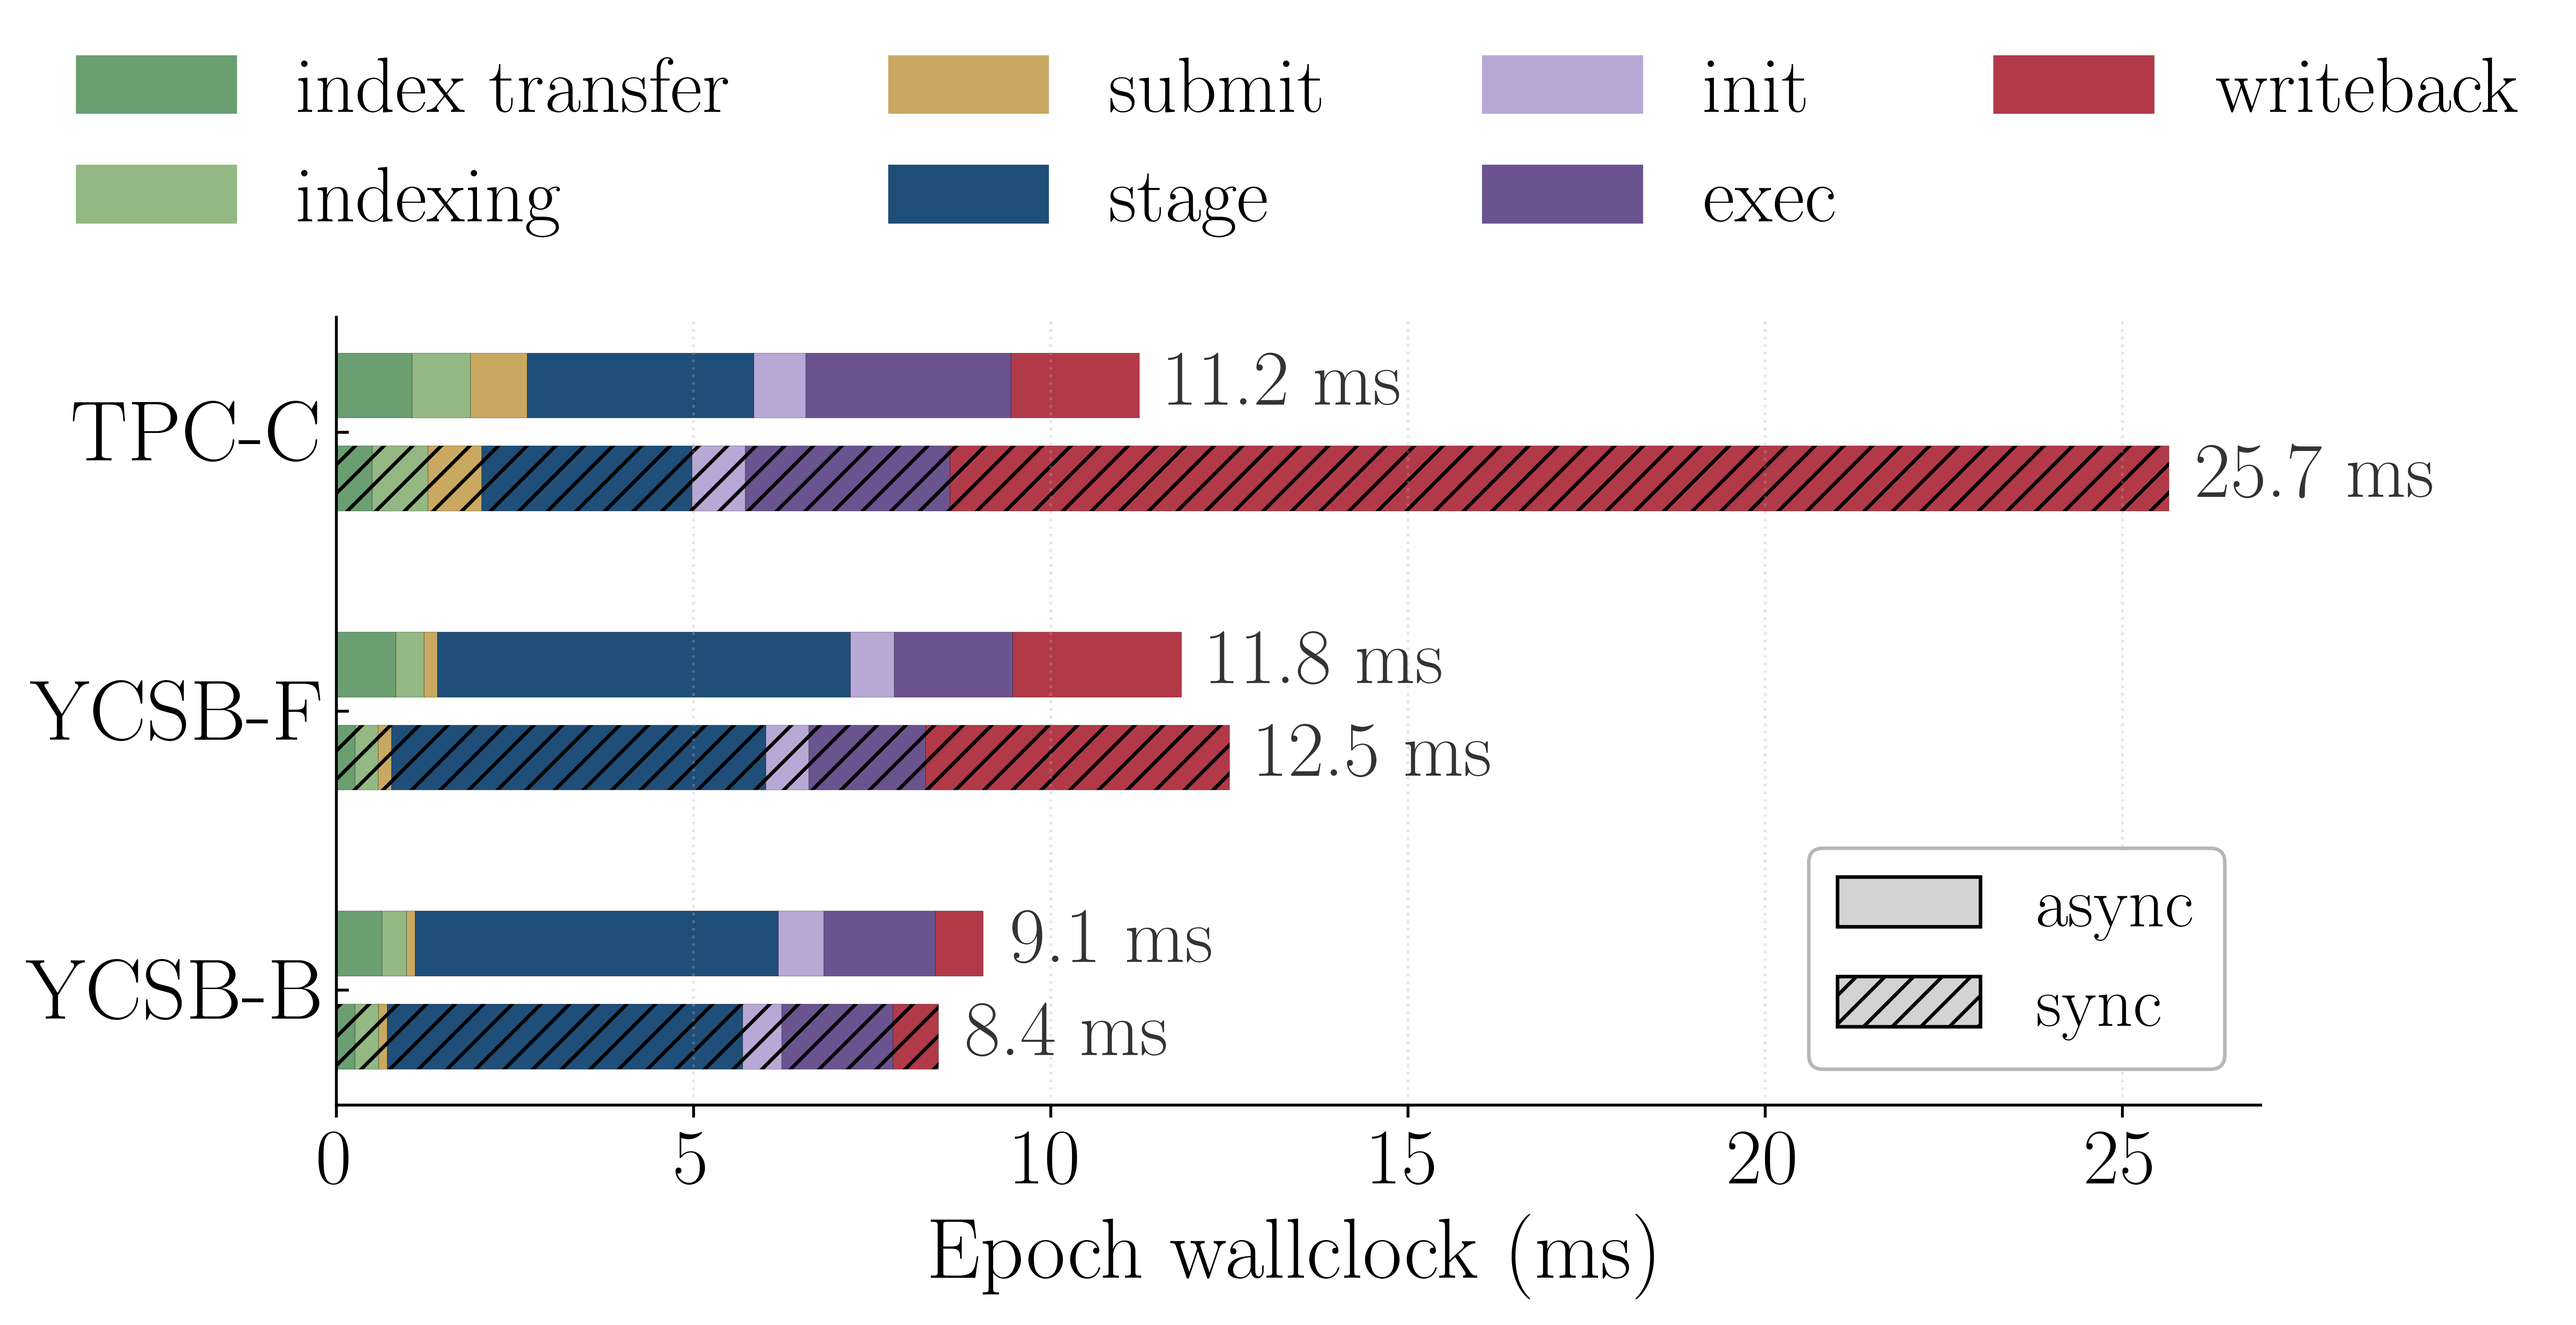
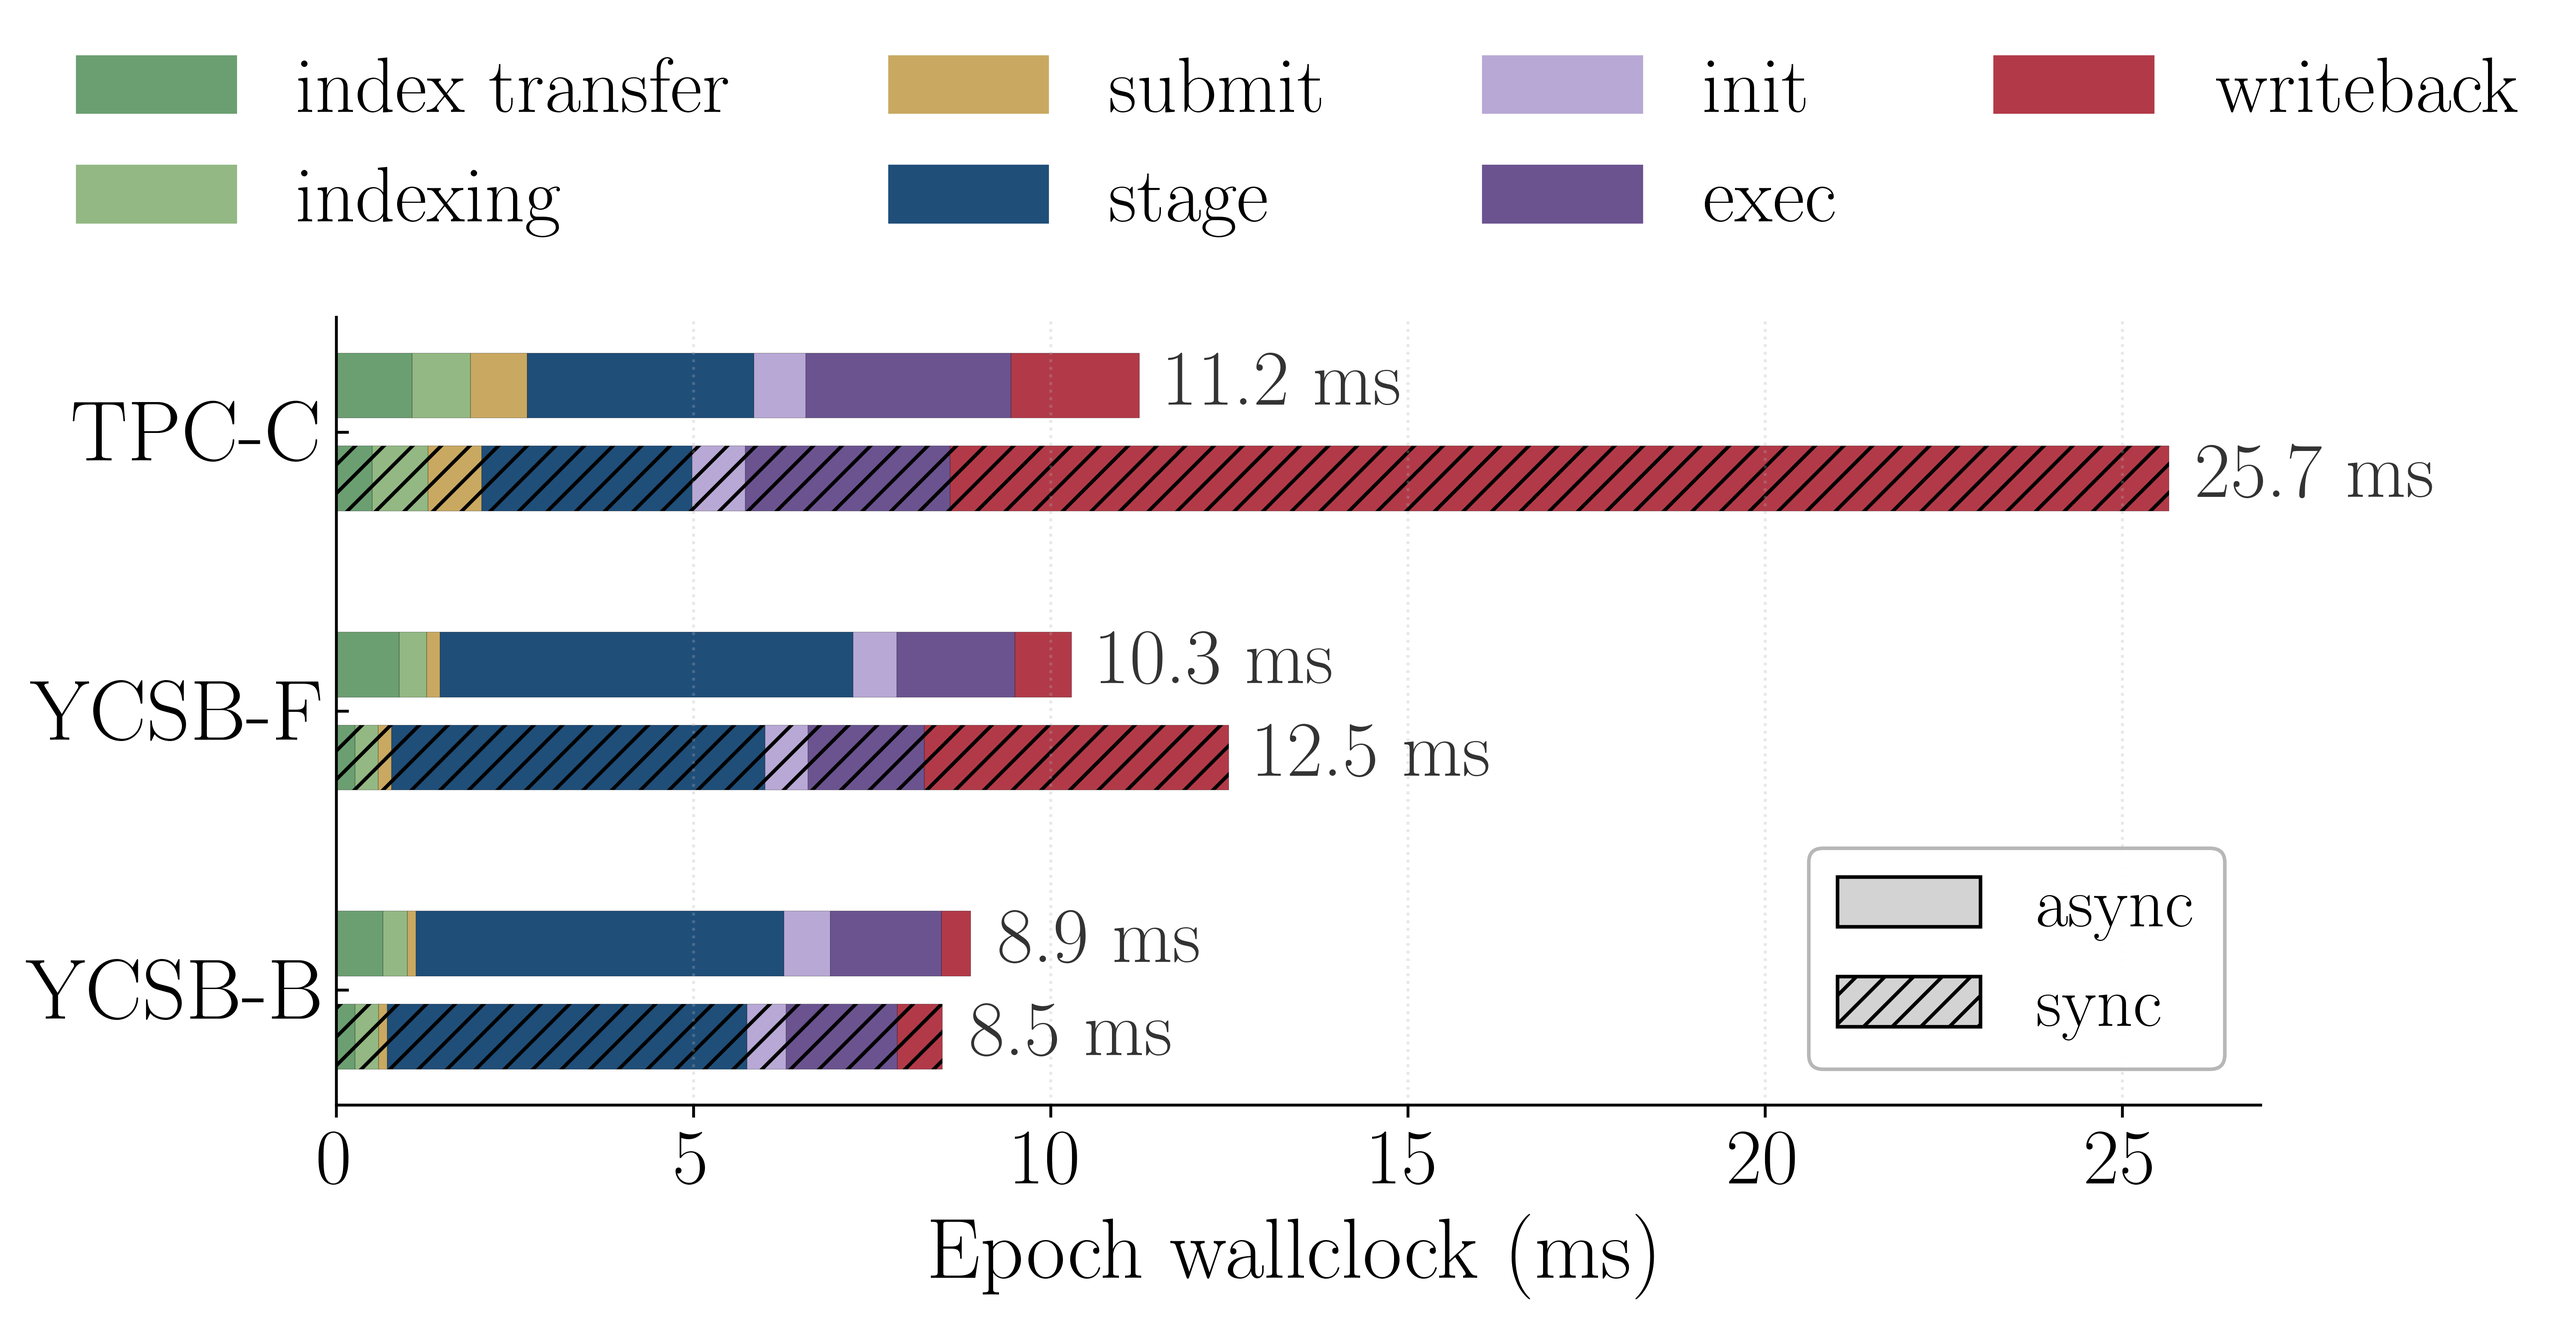
EGAD_plotting: breakdown YCSB cells re-measured under the 300-epoch protocol on a quiet box -- windows now match the throughput headline; TPC-C rows keep the committed 2026-07-06 dataset

diff --git a/EGAD_plotting/PLOTS.md b/EGAD_plotting/PLOTS.md
@@ -924,7 +924,7 @@ async and sync are indistinguishable on it (0.98x)."
   aggregated into a single `stage` block to match TPC-C's
   `prepareEpoch` granularity. Both share the same 7-phase axis:
   `index_transfer | indexing | submission | stage | initialization | execution | writeback`.
-- Steady-state windows: YCSB e30-e40, TPCC e30-e50 (matches plots
+- Steady-state windows: YCSB e250-e280 (the 300-epoch headline protocol), TPCC e30-e50 (matches plots
   08 and 10 respectively).
 
 ### How to read
@@ -944,13 +944,13 @@ Two secondary observations the figure makes visible:
   Appendix C; without an active writeback worker the inflation does
   not happen, which confirms the worker thread is the cause.
 
-### Cite (measured 2026-07-06; TPC-C cells epic@996e4a5, YCSB cells epic@34d2939; 3 reps each, all medians)
+### Cite (TPC-C cells 2026-07-06 epic@996e4a5, e30-50 rep medians; YCSB cells re-measured 2026-08-12, engine 54ca62c, 300-epoch protocol, e250-280 window, rep means; 3 reps each)
 
 | Workload | sync ms | async ms | speedup | wb sync ms | wb async ms |
 |---|---|---|---|---|---|
 | TPC-C tpccdeck W=128 | 25.65 | **11.24** | **2.28x** | 17.06 (67%) | 1.80 |
-| YCSB-F theta=0.5     | 12.50 | 10.30     | 1.21x    | 4.28        | 0.83        |
-| YCSB-B theta=0.5     |  8.37 |  8.51     | 0.98x    | 0.65        | 0.31        |
+| YCSB-F theta=0.5     | 12.49 | 10.29     | 1.21x    | 4.26        | 0.79        |
+| YCSB-B theta=0.5     |  8.49 |  8.88     | 0.96x    | 0.64        | 0.41        |
 
 - TPC-C tpccdeck is the **optimal async case** on our workload
   set. The writeback (17.06 ms) exceeds all other phases combined
